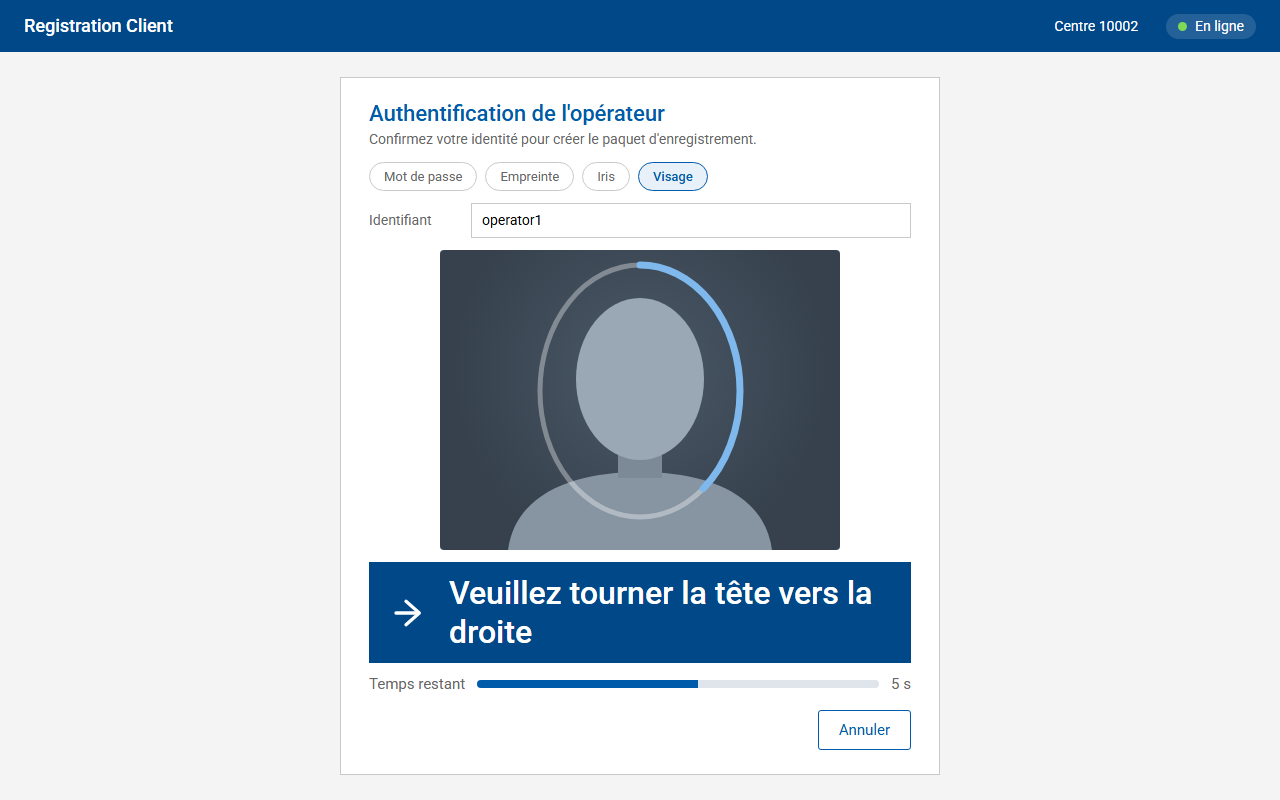
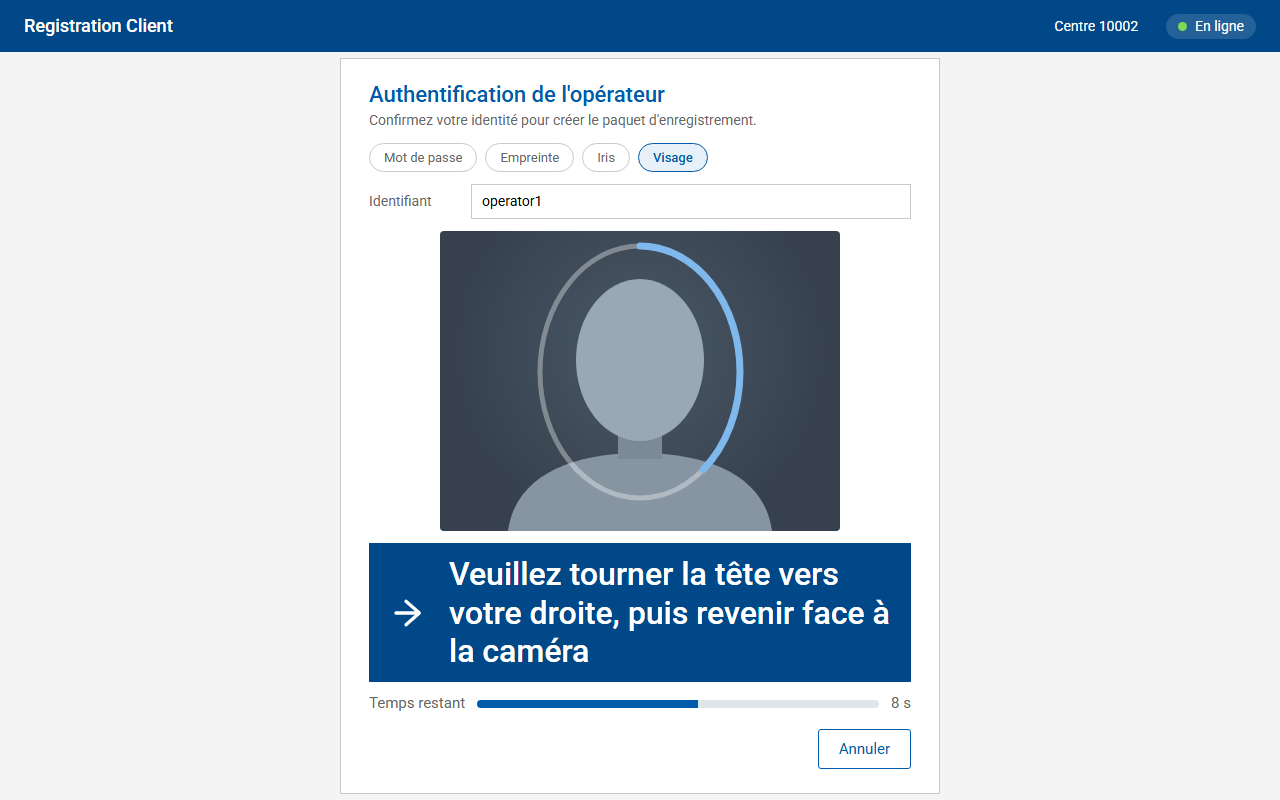
docs(ui): render the challenge mock-ups with the current texts
The turn instructions now ask to look back at the camera, blink replaces smile on the supervisor screen, and the time left follows the 15 s per challenge.

Changed region(s): [[0.2812, 0.5, 0.7188, 0.9688], [0.2812, 0.0938, 0.6562, 0.4688]]

diff --git a/docs/ui/mockups.html b/docs/ui/mockups.html
@@ -299,14 +299,14 @@ const SCREENS = [
     faceStatus: 'Action requested', headingNote: 'Challenge 1 of 2',
     preview: { ring: 'action', progress: 35 },
     band: { tone: 'action', icon: 'eye', text: 'Please blink' },
-    sub: timer({ label: 'Time left', share: 70, left: '6 s' }),
+    sub: timer({ label: 'Time left', share: 70, left: '11 s' }),
     details: [D_LIVE('Waiting for an action', 'warn'), ['Attempt', '1 of 3'], ['Quality score', 'After capture'], ['Face device', 'Connected', 'ok']] },
 
   { id: 'r05-challenge-turn', caption: 'Resident capture: second challenge, after the first action was detected', kind: 'resident',
     faceStatus: 'Action requested', headingNote: 'Challenge 2 of 2',
     preview: { ring: 'action', progress: 75 },
-    band: { tone: 'action', icon: 'left', text: 'Please turn your head to the left' },
-    sub: timer({ label: 'Time left', share: 45, left: '4 s' }),
+    band: { tone: 'action', icon: 'left', text: 'Please turn your head to your left, then look back at the camera' },
+    sub: timer({ label: 'Time left', share: 45, left: '7 s' }),
     details: [D_LIVE('Waiting for an action', 'warn'), ['Challenge 1', 'Action detected', 'ok'], ['Attempt', '1 of 3'], ['Face device', 'Connected', 'ok']] },
 
   { id: 'r06-success', caption: 'Resident capture: liveness verified, face captured', kind: 'resident',
@@ -359,7 +359,7 @@ const SCREENS = [
 
   { id: 'r12-resident-screen-fr', caption: 'Second screen turned towards the resident, in French', kind: 'residentView', lang: 'fr',
     step: 'Action 1 sur 2', icon: 'eye', text: 'Veuillez cligner des yeux',
-    timer: { label: 'Temps restant', share: 70, left: '6 s' } },
+    timer: { label: 'Temps restant', share: 70, left: '11 s' } },
 
   { id: 'a01-operator-login', caption: 'Operator sign-in by face, offline', kind: 'auth', offline: true,
     title: 'Sign in', context: 'Sign in to start registrations at this centre.', user: 'operator1',
@@ -371,15 +371,15 @@ const SCREENS = [
   { id: 'a02-operator-challenge-fr', caption: 'Operator authentication of a packet, active challenge, in French', kind: 'auth', lang: 'fr',
     title: 'Authentification de l\'opérateur', context: 'Confirmez votre identité pour créer le paquet d\'enregistrement.', userLabel: 'Identifiant', user: 'operator1',
     preview: { ring: 'action', progress: 40 },
-    band: { tone: 'action', icon: 'right', text: 'Veuillez tourner la tête vers la droite' },
-    sub: timer({ label: 'Temps restant', share: 55, left: '5 s' }),
+    band: { tone: 'action', icon: 'right', text: 'Veuillez tourner la tête vers votre droite, puis revenir face à la caméra' },
+    sub: timer({ label: 'Temps restant', share: 55, left: '8 s' }),
     buttons: [['Annuler', 'btn-outline']] },
 
   { id: 'a03-supervisor-approval', caption: 'Supervisor authentication for the end of day approval', kind: 'auth',
     title: 'Supervisor authentication', context: 'Approve the 12 registrations of the day.', user: 'supervisor1',
     preview: { ring: 'action', progress: 30 },
-    band: { tone: 'action', icon: 'smile', text: 'Please smile' },
-    sub: timer({ label: 'Time left', share: 80, left: '7 s' }),
+    band: { tone: 'action', icon: 'eye', text: 'Please blink' },
+    sub: timer({ label: 'Time left', share: 80, left: '12 s' }),
     buttons: [['Cancel', 'btn-outline']] },
 
   { id: 'a04-max-attempts-auth', caption: 'Operator sign-in: attempts exhausted, no exception path', kind: 'auth',

diff --git a/docs/ui/README.md b/docs/ui/README.md
@@ -39,7 +39,7 @@ Source: [../diagrams/ui-flow.puml](../diagrams/ui-flow.puml)
 | --- | --- | --- |
 | [a01](a01-operator-login.png) | Operator sign-in, offline, passive check | `LIVENESS_CHECKING` |
 | [a02](a02-operator-challenge-fr.png) | Operator authentication of a packet, challenge, in French | `LIVENESS_CHALLENGE_TURN_RIGHT` |
-| [a03](a03-supervisor-approval.png) | Supervisor authentication for the end of day approval, challenge | `LIVENESS_CHALLENGE_SMILE` |
+| [a03](a03-supervisor-approval.png) | Supervisor authentication for the end of day approval, challenge | `LIVENESS_CHALLENGE_BLINK` |
 | [a04](a04-max-attempts-auth.png) | Sign-in attempts exhausted: no exception, another sign-in method | `LIVENESS_MAX_ATTEMPTS_AUTH` |
 
 ![Operator authentication in French](a02-operator-challenge-fr.png)
